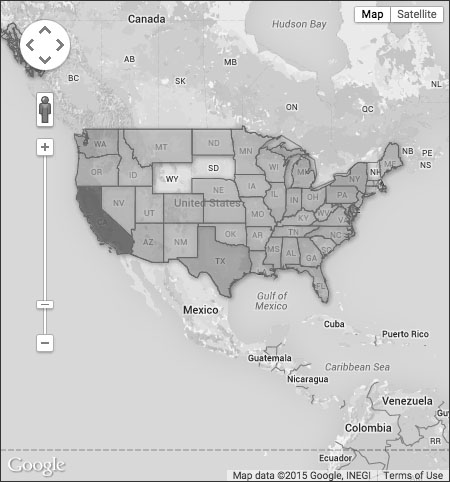
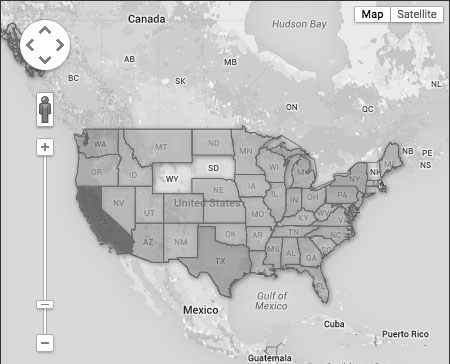
use display: block to maintain img ratios, added caption padding so it looks more like a real picture

diff --git a/css/main.css b/css/main.css
@@ -166,11 +166,12 @@ table.polaroid-container {
 
 /* main polaroid section that has img inside */
 .polaroid {
+	display: block;
 	background-color: #f3f3f3;
 	min-width: 250px;
 	width: 50vw;
-	min-height: 290px;
-	height: 66vh;
+	height: auto;
+	padding-bottom: 7px;
 	border-radius: 1%;
 	/* box-shadow */
 	-webkit-box-shadow: 3px 6px 11px 0px #000;
@@ -204,6 +205,7 @@ table.polaroid-container {
 	display: table-cell;
 	vertical-align: middle;
 	margin: 0;
+	padding-top: 7px;
 	text-align: center;
 	font-family: "Reenie Beanie", "Nothing You Could Do";
 	font-size: 1.4em;
